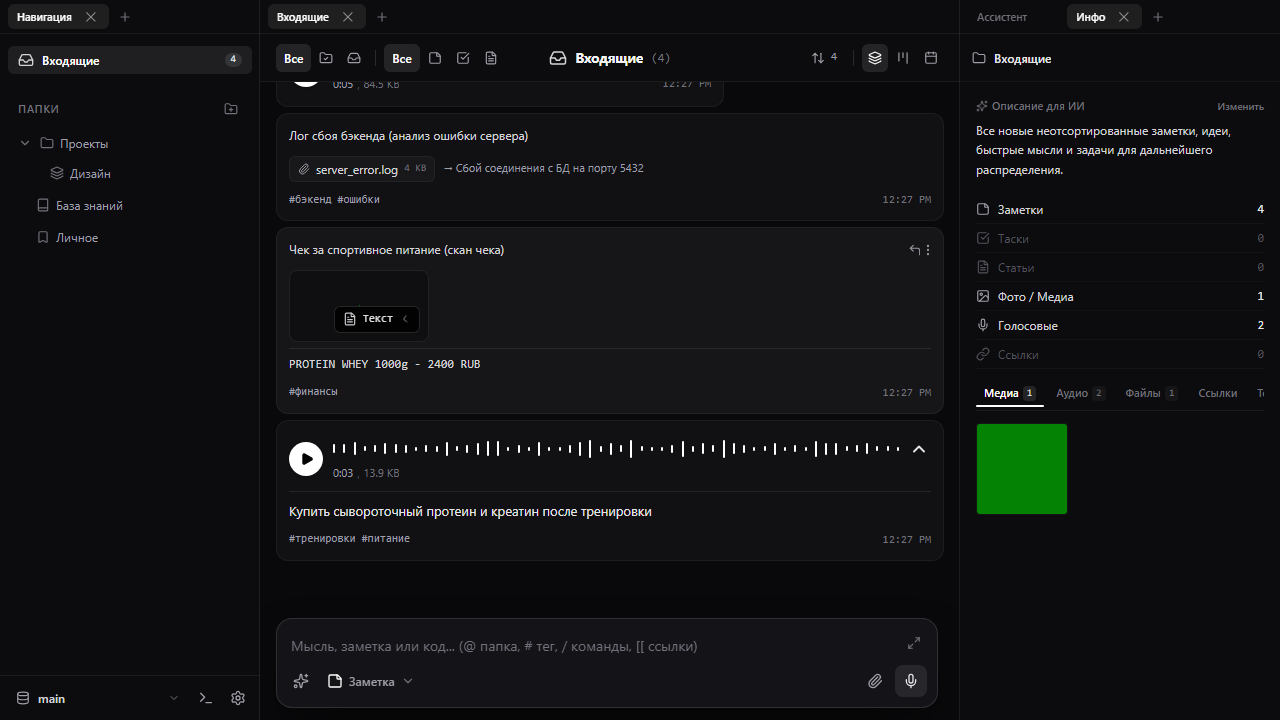
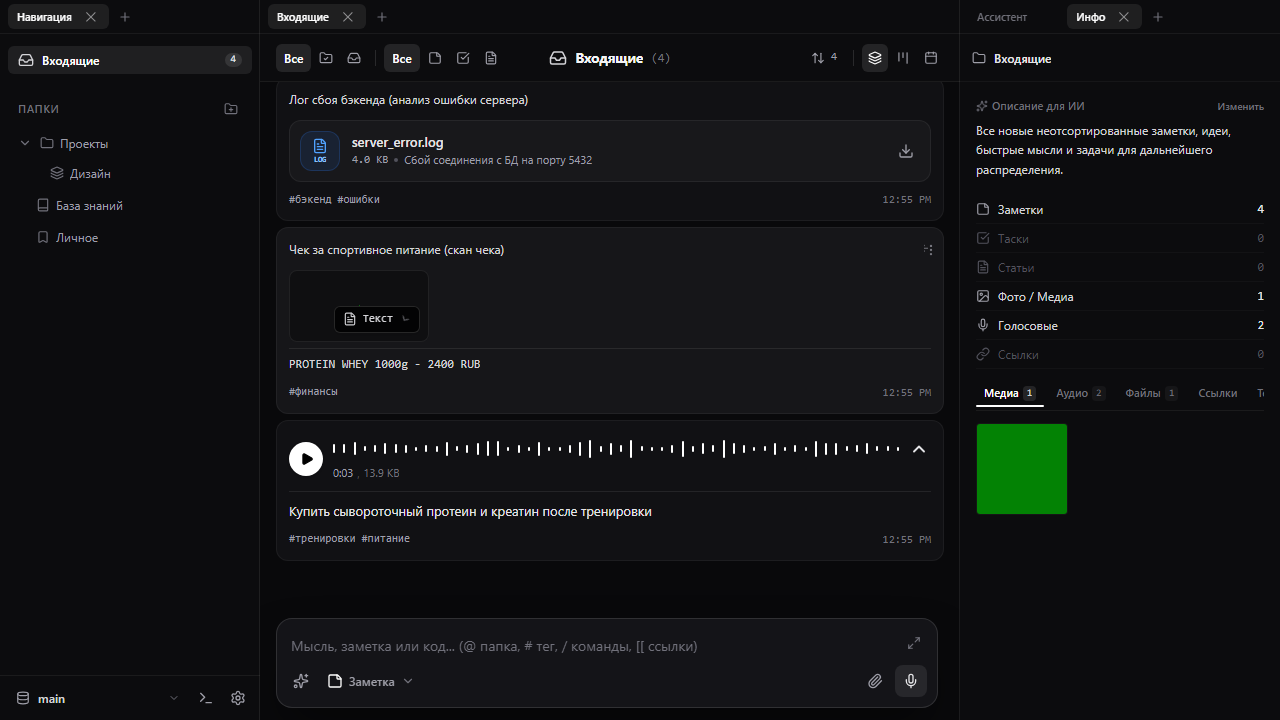
fix(feed): redesign file attachments into native compact cards with anti-matryoshka layout

Changed region(s): [[0.2188, 0.1833, 0.5, 0.2444], [0.2188, 0.0917, 0.4062, 0.1528]]

diff --git a/src/components/Feed/ItemCard.tsx b/src/components/Feed/ItemCard.tsx
@@ -8,7 +8,6 @@ import {
   Circle,
   Maximize2,
   MoreVertical,
-  Paperclip,
   Calendar,
   ChevronDown,
   ChevronUp,
@@ -17,7 +16,8 @@ import {
   Pin,
   Sparkles,
   Loader2,
-  Flame
+  Flame,
+  Download
 } from 'lucide-react';
 import { LinearSignalBars } from '../UI/PriorityBadge';
 import { enrichAttachment, extractFocalContext } from '../../lib/attachmentEnrichment';
@@ -66,6 +66,22 @@ const isGenericTitle = (title?: string): boolean => {
     t === 'черновик' ||
     t === 'без названия'
   );
+};
+
+const formatBytes = (bytes?: number): string => {
+  if (!bytes || bytes <= 0) return '';
+  if (bytes < 1024) return `${bytes} B`;
+  if (bytes < 1024 * 1024) return `${(bytes / 1024).toFixed(1)} KB`;
+  return `${(bytes / (1024 * 1024)).toFixed(1)} MB`;
+};
+
+const getFileExt = (name?: string): string => {
+  if (!name) return '';
+  const parts = name.split('.');
+  if (parts.length > 1) {
+    return parts.pop()?.toUpperCase() || '';
+  }
+  return '';
 };
 
 const ItemCardComponent: React.FC<ItemCardProps> = ({
@@ -211,6 +227,20 @@ const ItemCardComponent: React.FC<ItemCardProps> = ({
     !item.isPinned &&
     (!item.priority || item.priority === 'none');
 
+  const isPureFile =
+    fileAttachments.length === 1 &&
+    audioAttachments.length === 0 &&
+    videoAttachments.length === 0 &&
+    imageAttachments.length === 0 &&
+    !item.content.trim() &&
+    !isTask &&
+    !isArticle &&
+    (!item.subtasks || item.subtasks.length === 0) &&
+    (!item.tags || item.tags.length === 0) &&
+    !item.replyToId &&
+    !item.isPinned &&
+    (!item.priority || item.priority === 'none');
+
   const handleImageClick = (img: SlagAttachment) => {
     if (onImageClick) {
       onImageClick(img, item);
@@ -320,7 +350,7 @@ const ItemCardComponent: React.FC<ItemCardProps> = ({
   const hasBottomMeta =
     metaElements.length > 0 || Boolean(item.tags && item.tags.length > 0);
 
-  const shouldRenderBottomBar = !isPureVoice || hasBottomMeta;
+  const shouldRenderBottomBar = (!isPureVoice && !isPureFile) || hasBottomMeta;
 
   const handleOpenArticle = () => {
     setSelectedItem(item);
@@ -394,17 +424,17 @@ const ItemCardComponent: React.FC<ItemCardProps> = ({
           transition: swipeOffset ? 'none' : 'transform 150ms ease-out',
         }}
         className={`group relative flex flex-col ${
-          isPureVoice ? 'gap-0 max-w-sm sm:max-w-md' : 'gap-1.5 w-full'
+          isPureVoice || isPureFile ? 'gap-0 max-w-sm sm:max-w-md' : 'gap-1.5 w-full'
         } p-2.5 sm:p-3 rounded-xl transition-all cursor-default select-none ${
           isHighlighted
             ? 'bg-blue-500/10 border border-blue-500/40 item-highlight-pulse'
             : 'bg-[#141417]/80 hover:bg-[#161619] border border-white/[0.05]'
         }`}
       >
-        {/* Action Buttons: desktop inside card for full-width items; floating right for pure voice bubbles */}
+        {/* Action Buttons: desktop inside card for full-width items; floating right for pure voice/file bubbles */}
         <div
           className={`absolute top-2 right-2 ${
-            isPureVoice
+            isPureVoice || isPureFile
               ? 'sm:right-auto sm:left-full sm:pl-1.5 flex flex-col'
               : 'sm:top-2.5 sm:right-2.5 flex items-center'
           } gap-1 sm:gap-0 sm:group-hover:gap-1 transition-all duration-150 z-20 pointer-events-auto`}
@@ -747,27 +777,68 @@ const ItemCardComponent: React.FC<ItemCardProps> = ({
 
       {/* File Attachments */}
       {fileAttachments.length > 0 && (
-        <div className="flex flex-col gap-1.5 pt-1">
-          {fileAttachments.map(file => (
-            <div key={file.id} className="flex items-center gap-2 flex-wrap">
+        <div className={`flex flex-col gap-1.5 ${isPureFile ? 'w-full' : 'pt-1 w-full'}`}>
+          {fileAttachments.map(file => {
+            const ext = getFileExt(file.name);
+            return (
               <a
+                key={file.id}
                 href={file.dataUrl}
                 download={file.name}
-                className="flex items-center gap-1.5 px-2 py-1 rounded-md bg-white/[0.03] hover:bg-white/[0.06] text-xs text-zinc-300 border border-white/[0.05] transition-colors shrink-0"
+                className={
+                  isPureFile
+                    ? 'flex items-center gap-3 w-full select-none group/file cursor-pointer'
+                    : 'flex items-center gap-3 p-2 sm:p-2.5 rounded-xl bg-white/[0.03] hover:bg-white/[0.06] border border-white/[0.06] hover:border-white/[0.12] transition-all group/file select-none cursor-pointer w-full'
+                }
               >
-                <Paperclip className="w-3 h-3 text-zinc-400" />
-                <span className="truncate max-w-[150px]">{file.name}</span>
-                <span className="text-[10px] text-zinc-500 font-mono">
-                  {Math.round(file.size / 1024)} KB
-                </span>
+                {/* File Icon Block */}
+                <div className="w-10 h-10 rounded-xl bg-blue-500/10 border border-blue-500/20 text-blue-400 flex flex-col items-center justify-center shrink-0 group-hover/file:bg-blue-500/20 group-hover/file:border-blue-500/30 transition-all">
+                  <FileText className="w-4 h-4 shrink-0" />
+                  {ext && (
+                    <span className="text-[8px] font-mono font-bold tracking-tight text-blue-300 uppercase leading-none mt-0.5">
+                      {ext.slice(0, 4)}
+                    </span>
+                  )}
+                </div>
+
+                {/* Filename & Info */}
+                <div className="flex-1 min-w-0 flex flex-col justify-center gap-0.5">
+                  <span
+                    className="text-xs sm:text-[13px] font-medium text-zinc-200 group-hover/file:text-white truncate font-sans"
+                    title={file.name}
+                  >
+                    {file.name}
+                  </span>
+                  <div className="flex items-center gap-1.5 text-[11px] text-zinc-500 font-sans truncate">
+                    <span className="font-mono text-zinc-400">{formatBytes(file.size)}</span>
+                    {file.summary && (
+                      <>
+                        <span className="w-1 h-1 rounded-full bg-zinc-600 shrink-0" />
+                        <span className="truncate text-zinc-400" title={file.summary}>
+                          {file.summary}
+                        </span>
+                      </>
+                    )}
+                  </div>
+                </div>
+
+                {/* Right Action: Timestamp + Download for pure file, or Download icon */}
+                <div className="flex items-center gap-2 shrink-0 ml-1">
+                  {isPureFile && (
+                    <span className="text-[11px] font-mono text-zinc-500 select-none leading-none">
+                      {formattedTime}
+                    </span>
+                  )}
+                  <div
+                    className="w-7 h-7 rounded-lg text-zinc-400 group-hover/file:text-white group-hover/file:bg-white/[0.08] flex items-center justify-center transition-all"
+                    title="Скачать файл"
+                  >
+                    <Download className="w-4 h-4" />
+                  </div>
+                </div>
               </a>
-              {file.summary && (
-                <span className="text-[11px] text-zinc-400 truncate max-w-[320px] font-sans" title={file.summary}>
-                  → {file.summary}
-                </span>
-              )}
-            </div>
-          ))}
+            );
+          })}
         </div>
       )}
 

diff --git a/e2e/folder_composer.spec.ts b/e2e/folder_composer.spec.ts
@@ -165,4 +165,45 @@ test.describe('Composer @ Folder Selection E2E', () => {
 
     await textarea.press('Enter');
   });
+
+  test('5. Pure file note card: sleek compact row without matryoshka or thin pill', async ({ page }) => {
+    await page.setViewportSize({ width: 1280, height: 720 });
+    await page.goto('/', { waitUntil: 'domcontentloaded' });
+    await expect(page.locator('main').first()).toBeVisible({ timeout: 15000 });
+
+    const composer = page.locator('main').locator('.rounded-2xl').filter({ has: page.locator('textarea') }).first();
+    await expect(composer).toBeVisible();
+
+    // Drop file directly into composer without any text
+    await composer.evaluate((el) => {
+      const dt = new DataTransfer();
+      const file = new File(['log events content'], 'slag_logs_2026-10-28-06-12-30.json', { type: 'application/json' });
+      dt.items.add(file);
+      el.dispatchEvent(new DragEvent('drop', { dataTransfer: dt, bubbles: true, cancelable: true }));
+    });
+
+    // Wait for attachment in composer strip
+    await expect(page.locator('text=slag_logs_2026-10-28-06-12-30.json').first()).toBeVisible({ timeout: 5000 });
+
+    // Submit with Enter (no text typed)
+    const textarea = page.locator('main textarea').first();
+    await textarea.press('Enter');
+
+    // Verify pure file card in feed
+    const fileCard = page.locator('.group').filter({ hasText: 'slag_logs_2026-10-28-06-12-30.json' }).first();
+    await expect(fileCard).toBeVisible({ timeout: 5000 });
+    await fileCard.scrollIntoViewIfNeeded();
+
+    // Verify format badge JSON exists
+    await expect(fileCard.locator('text="JSON"')).toBeVisible();
+
+    // Verify no separate nested card border or chopped pill
+    await expect(fileCard.locator('a[download]')).toBeVisible();
+
+    // Screenshot pure file card in feed
+    await page.screenshot({
+      path: 'test-results/screenshots/pure-file-card.png',
+      fullPage: false,
+    });
+  });
 });
